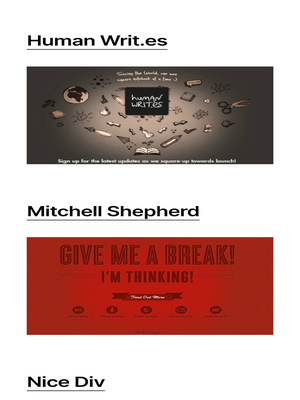
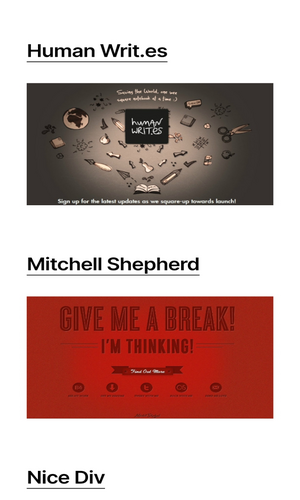
change images side and header

diff --git a/lesson2/styles/design-principles.css b/lesson2/styles/design-principles.css
@@ -1,7 +1,7 @@
 header  {   
 	margin: 0 auto;
 	width: 62%;
-    height: 80px; 
+    height: 100px; 
     background-color: rgb(46, 46, 157); 
     text-align: center;  
 	margin-bottom: 5px;
@@ -83,7 +83,6 @@ main section h2 {
 
 .aligment-img{
 	box-shadow: 0 0 30px #333; 
-	height: 340px;
 } 
 .aligment-img:hover{ 
     opacity: .9;
